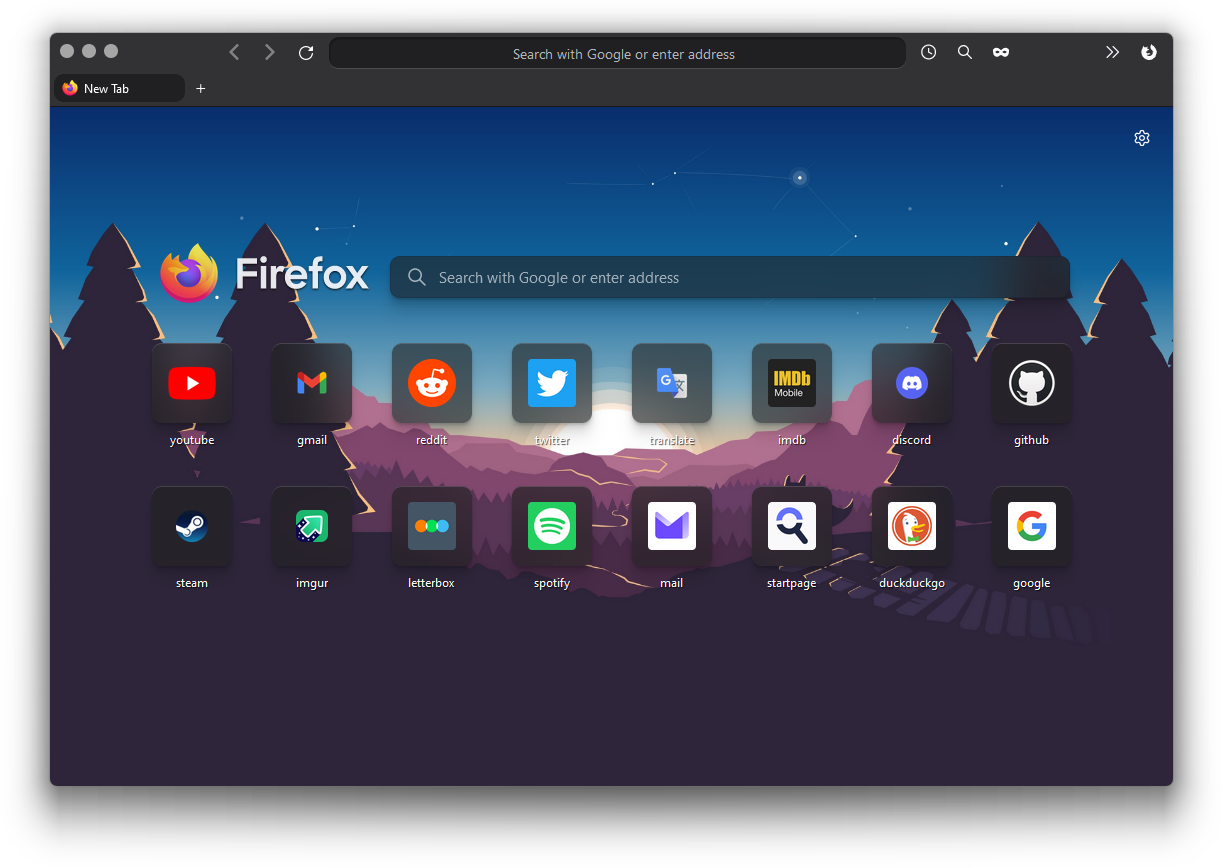
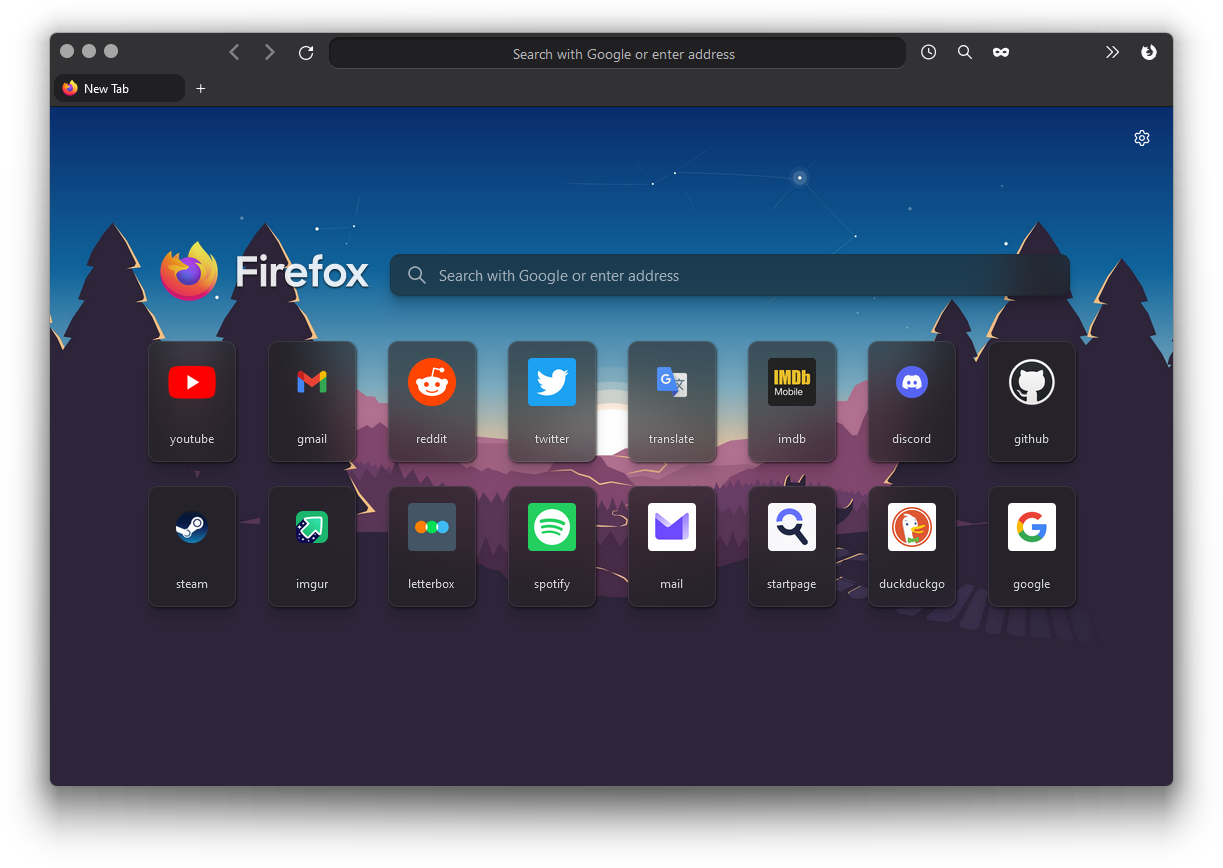
Firefox v148 fixes

diff --git a/EXTRA THEMES/Wallpaper Edition/Style 2/wallpaper-edition.css b/EXTRA THEMES/Wallpaper Edition/Style 2/wallpaper-edition.css
@@ -1,9 +1,9 @@
 @-moz-document url("about:home"), url("about:newtab") {
-:root {
-  --firefoxcss-wallpaper-item-bg-color: hsla(0, 0%, 12%, 0.6);
-  --firefoxcss-wallpaper-item-hover-bg-color: hsla(0, 0%, 16%, 0.5);
-}
-
+  :root {
+    --firefoxcss-wallpaper-item-bg-color: hsla(0, 0%, 12%, 0.7);
+    --firefoxcss-wallpaper-item-hover-bg-color: hsla(0, 0%, 14%, 0.5);
+  }
+  
   @media (prefers-color-scheme: light) {
     :root {
       --newtab-wordmark-color: #fbfbfe !important;
@@ -21,28 +21,25 @@
 /* Wallapaper edition. Change wallpaper.jpg to wallpaper.png if used different file extension */
 @-moz-document url("about:home"),
 url("about:newtab") {
-  body {
-    background: url("ASSETS/wallpaper/wallpaper.jpg") center/cover no-repeat fixed !important;
-  }
 
-  .outer-wrapper .search-wrapper .search-handoff-button {
+
+  button.search-handoff-button {
     backdrop-filter: blur(24px) !important;
-    border-top: 1px solid hsla(0, 0%, 70%, 0.135) !important;
     background-color: var(--firefoxcss-wallpaper-item-bg-color) !important;
-    /* color: #ffffff5e !important; */
-    /* box-shadow: none !important; */
+    border-top: 1px solid hsla(0, 0%, 70%, 0.135) !important;
     fill: hsla(0, 0%, 100%, 0.6) !important;
-    box-shadow: 0 1px 1px hsl(0deg 0% 0% / 0.075),
-      0 2px 2px hsl(0deg 0% 0% / 0.075), 0 4px 4px hsl(0deg 0% 0% / 0.075),
-      0 8px 8px hsl(0deg 0% 0% / 0.075), 0 16px 16px hsl(0deg 0% 0% / 0.095) !important;
     border: 1px solid #0000001c !important;
   }
 
+  .outer-wrapper .logo-and-wordmark .wordmark {
+    filter: drop-shadow(0px 1px 1px hsl(0, 0%, 0%));
+  }
+
   #root .outer-wrapper .body-wrapper .tile {
-    backdrop-filter: blur(0px) !important;
+    backdrop-filter: unset !important;
     border-top: 0px solid hsla(0, 0%, 100%, 0) !important;
     border-bottom: 0px solid hsla(0, 0%, 100%, 0) !important;
-    background-color: transparent !important;
+    background-color: hsla(0, 0%, 11%, 0.6) !important;
     border-bottom-left-radius: 0px !important;
     border-bottom-right-radius: 0px !important;
     border: 0px !important;
@@ -50,13 +47,24 @@ url("about:newtab") {
     margin-left: 0px !important;
     margin-right: 0px !important;
     width: 100% !important;
+    border-bottom: 1px solid color-mix(in srgb, currentColor 10%, transparent) !important;
+  }
+    
+  .outer-wrapper .top-sites-list .top-site-outer {
+    padding-inline: 12px !important;
+    margin-block-end: 34px !important;
+  }
+  
+  .outer-wrapper .top-site-outer .top-site-inner > a {
+    padding: 0px !important;
+  }
+  
+   .outer-wrapper .top-site-outer .context-menu-button {
+    inset-inline-end: 4px !important;
+    top: -20px !important;
   }
 
-  .outer-wrapper .logo-and-wordmark .wordmark {
-    filter: drop-shadow(0px 1px 1px hsl(0, 0%, 0%));
-  }
-
-  .outer-wrapper .search-inner-wrapper:hover .search-handoff-button {
+  button.search-handoff-button:hover {
     background-color: var(--firefoxcss-wallpaper-item-hover-bg-color) !important;
     border-top: 1px solid hsla(0, 0%, 48%, 0.3) !important;
     fill: rgba(251, 251, 254, 0.8) !important;
@@ -64,45 +72,40 @@ url("about:newtab") {
 
   #root .outer-wrapper .body-wrapper .top-site-button:hover .tile {
     border-top: 0px !important;
-    background-color: transparent !important;
+    background-color: hsla(0, 0%, 16%, 0.4) !important;
   }
 
   .outer-wrapper .top-site-outer .top-site-button .title {
     opacity: 0.8 !important;
-    text-shadow: 0px 0px 1px #000, 0px 0px 1px #000 !important;
+    text-shadow: 0px 0px 1px #000 !important;
     /* text-shadow: 0 0 1px black, 0 0 1px black, 0 0 1px black, 0 0 1px black; */
   }
 
   .outer-wrapper .top-site-outer .top-site-inner {
-    backdrop-filter: blur(24px) !important;
-    background-color: var(--firefoxcss-wallpaper-item-bg-color) !important;
+
+    background-color: hsla(0, 0%, 13%, 0.5) !important;
     border-radius: 10px !important;
     border: 1px solid #ffffff17 !important;
     box-shadow: 0 1px 1px hsl(0deg 0% 0% / 0.075),
       0 2px 2px hsl(0deg 0% 0% / 0.075), 0 4px 4px hsl(0deg 0% 0% / 0.075),
-      0 8px 8px hsl(0deg 0% 0% / 0.075), 0 16px 16px hsl(0deg 0% 0% / 0.075),
-      1px 1px 2px hsl(0deg 0% 0% / 0.5) !important;
-    transition: background-color 250ms ease;
+      0 8px 8px hsl(0deg 0% 0% / 0.075), 0 16px 16px hsl(0deg 0% 0% / 0.075) !important;
+    /* 1px solid #33333329 !important  */
   }
   
-  .outer-wrapper .top-sites-list .top-site-outer {
-    padding-inline: 10px !important;
+  .outer-wrapper .top-site-outer .top-site-inner:before {
+    content: "";
+    position: absolute;
+    inset: 0;
+    backdrop-filter: blur(16px);
+    z-index: -1;
+    border-radius: 10px !important;
   }
-  .outer-wrapper .top-site-outer .top-site-inner > a {
-    padding: 8px 16px 2px !important;
-  }
-  
-   .outer-wrapper .top-site-outer .context-menu-button {
-    inset-inline-end: 10px !important;
-    top: 2px !important;
-  }
-  
 
   .outer-wrapper .body-wrapper .top-site-inner:hover {
-    background-color: var(--firefoxcss-wallpaper-item-hover-bg-color) !important;
+    background-color: hsla(0, 0%, 15%, 0.5) !important;
   }
 
-  .outer-wrapper .search-wrapper .search-handoff-button .fake-textbox {
+  button.search-handoff-button .fake-textbox {
     opacity: 0.6 !important;
   }
 

diff --git a/EXTRA THEMES/Wallpaper Edition/Style 1/wallpaper-edition.css b/EXTRA THEMES/Wallpaper Edition/Style 1/wallpaper-edition.css
@@ -14,67 +14,103 @@
     .top-site-outer .title {
     color: #fbfbfe !important;
     }
+    
   }
 }
 
 /* Wallapaper edition. Change wallpaper.jpg to wallpaper.png if used different file extension */
 @-moz-document url("about:home"),
 url("about:newtab") {
-  body {
-    background: url("ASSETS/wallpaper/wallpaper.jpg") center/cover no-repeat fixed !important;
-  }
 
-  .outer-wrapper .search-wrapper .search-handoff-button {
-    -webkit-backdrop-filter: blur(24px) !important;
+
+  button.search-handoff-button {
     backdrop-filter: blur(24px) !important;
     border-top: 1px solid hsla(0, 0%, 70%, 0.135) !important;
     background-color: var(--firefoxcss-wallpaper-item-bg-color) !important;
     /* color: #ffffff5e !important; */
     /* box-shadow: none !important; */
     fill: hsla(0, 0%, 100%, 0.6) !important;
+    box-shadow: 0 1px 1px hsl(0deg 0% 0% / 0.075),
+      0 2px 2px hsl(0deg 0% 0% / 0.075), 0 4px 4px hsl(0deg 0% 0% / 0.075),
+      0 8px 8px hsl(0deg 0% 0% / 0.075), 0 16px 16px hsl(0deg 0% 0% / 0.095) !important;
     border: 1px solid #0000001c !important;
+  }
+
+  #root .outer-wrapper .body-wrapper .tile {
+    backdrop-filter: blur(0px) !important;
+    border-top: 0px solid hsla(0, 0%, 100%, 0) !important;
+    border-bottom: 0px solid hsla(0, 0%, 100%, 0) !important;
+    background-color: transparent !important;
+    border-bottom-left-radius: 0px !important;
+    border-bottom-right-radius: 0px !important;
+    border: 0px !important;
+    box-shadow: none !important;
+    margin-left: 0px !important;
+    margin-right: 0px !important;
+    width: 100% !important;
   }
 
   .outer-wrapper .logo-and-wordmark .wordmark {
     filter: drop-shadow(0px 1px 1px hsl(0, 0%, 0%));
   }
 
-  .outer-wrapper .body-wrapper .tile {
-    backdrop-filter: blur(24px) !important;
-    border-top: 1px solid hsla(0, 0%, 100%, 0.145) !important;
-    background-color: var(--firefoxcss-wallpaper-item-bg-color) !important;
-      filter: drop-shadow(0px 1px 1px color-mix(in srgb, currentColor 25%, transparent));
-  }
-
-  .outer-wrapper .search-inner-wrapper:hover .search-handoff-button {
+  button.search-handoff-button:hover {
     background-color: var(--firefoxcss-wallpaper-item-hover-bg-color) !important;
     border-top: 1px solid hsla(0, 0%, 48%, 0.3) !important;
     fill: rgba(251, 251, 254, 0.8) !important;
   }
 
-  .outer-wrapper .body-wrapper .top-site-button:hover .tile {
-    border-top: 1px solid hsla(0, 0%, 58%, 0.3) !important;
-     background-color: var(--firefoxcss-wallpaper-item-hover-bg-color) !important;
+  #root .outer-wrapper .body-wrapper .top-site-button:hover .tile {
+    border-top: 0px !important;
+    background-color: transparent !important;
   }
 
   .outer-wrapper .top-site-outer .top-site-button .title {
-    opacity: 1 !important;
-    /* text-shadow: 0px 0px 1px #000 !important; */
-    text-shadow: 1px 1px 1px rgba(0, 0, 0, 0.699);
+    opacity: 0.8 !important;
+    text-shadow: 0px 0px 1px #000, 0px 0px 1px #000 !important;
+    /* text-shadow: 0 0 1px black, 0 0 1px black, 0 0 1px black, 0 0 1px black; */
+  }
+
+  .outer-wrapper .top-site-outer .top-site-inner {
+    background-color: var(--firefoxcss-wallpaper-item-bg-color) !important;
+    border-radius: 10px !important;
+    border: 1px solid #ffffff17 !important;
+    box-shadow: 0 1px 1px hsl(0deg 0% 0% / 0.075),
+      0 2px 2px hsl(0deg 0% 0% / 0.075), 0 4px 4px hsl(0deg 0% 0% / 0.075),
+      0 8px 8px hsl(0deg 0% 0% / 0.075), 0 16px 16px hsl(0deg 0% 0% / 0.075),
+      1px 1px 2px hsl(0deg 0% 0% / 0.5) !important;
+    transition: background-color 250ms ease;
   }
   
-  .outer-wrapper .top-site-outer {
-      margin-block-end: 4px !important;
+   .outer-wrapper .top-site-outer .top-site-inner:before {
+    content: "";
+    position: absolute;
+    inset: 0;
+    backdrop-filter: blur(16px);
+    z-index: -1;
+    border-radius: 10px !important;
+  }
+  
+  .outer-wrapper .top-sites-list .top-site-outer {
+    padding-inline: 10px !important;
+  }
+  
+  .outer-wrapper .top-site-outer .top-site-inner > a {
+    padding: 8px 16px 2px !important;
+  }
+  
+   .outer-wrapper .top-site-outer .context-menu-button {
+    inset-inline-end: 10px !important;
+    top: 2px !important;
+  }
+  
+
+  .outer-wrapper .body-wrapper .top-site-inner:hover {
+    background-color: var(--firefoxcss-wallpaper-item-hover-bg-color) !important;
   }
 
-  .outer-wrapper .search-wrapper .search-handoff-button .fake-textbox {
-    opacity: 0.6 !important;
-  }
-
-  .outer-wrapper .top-site-button .title.has-icon.pinned span .icon {
-    opacity: 1 !important;
-    display: none !important;
-    filter: drop-shadow(0px 1px 1px hsl(0, 0%, 0%));
+  button.search-handoff-button .fake-textbox {
+    opacity: 0.5 !important;
   }
 
   .outer-wrapper .context-menu-button.icon,

diff --git a/EXTRA THEMES/Spill/spill-style-part2-file.css b/EXTRA THEMES/Spill/spill-style-part2-file.css
@@ -1,11 +1,9 @@
 /* Spill style. Modifications for userContent file */
 @-moz-document url("about:home"), url("about:newtab"), url("about:privatebrowsing") {
   @media (prefers-color-scheme: dark) {
-    :root {
+    :root #root{
       --firefoxcss-item-bg-color: hsla(240, 2%, 45%, 0.4) !important;
       --firefoxcss-item-hover-bg-color: hsl(240, 2%, 55%, 0.4) !important;
-      --firefoxcss-settings-wheel-color: hsla(240, 20%, 80%, 0.6) !important;
-      --firefoxcss-settings-wheel-color-hover: hsla(240, 20%, 80%, 0.9) !important;
     }
   }
 }
@@ -26,28 +24,28 @@
     }
   }
 
-  #search-handoff-button {
+  button.search-handoff-button {
     background-color: hsla(290, 21%, 35%, 0.2) !important;
     border-top: 1px solid hsla(290, 21%, 50%, 0.2) !important;
     fill: hsl(290, 21%, 60%) !important;
     backdrop-filter: blur(24px) !important;
   }
 
-  #search-handoff-button:hover,
-  #search-handoff-button:focus,
-  #search-handoff-button:active {
+  button.search-handoff-button:hover,
+  button.search-handoff-button:focus,
+  button.search-handoff-button:active {
     background-color: hsla(290, 21%, 45%, 0.2) !important;
     border-top: 1px solid hsla(290, 21%, 55%, 0.2) !important;
     fill: hsl(290, 21%, 70%) !important;
   }
 
-  #search-handoff-button .fake-textbox {
+  button.search-handoff-button .fake-textbox {
     color: hsl(290, 21%, 60%) !important;
   }
 
-  #search-handoff-button:active > .fake-textbox,
-  #search-handoff-button:hover > .fake-textbox,
-  #search-handoff-button:focus > .fake-textbox {
+  button.search-handoff-button:active > .fake-textbox,
+  button.search-handoff-button:hover > .fake-textbox,
+  button.search-handoff-button:focus > .fake-textbox {
     color: hsl(290, 21%, 70%) !important;
   }
 }
